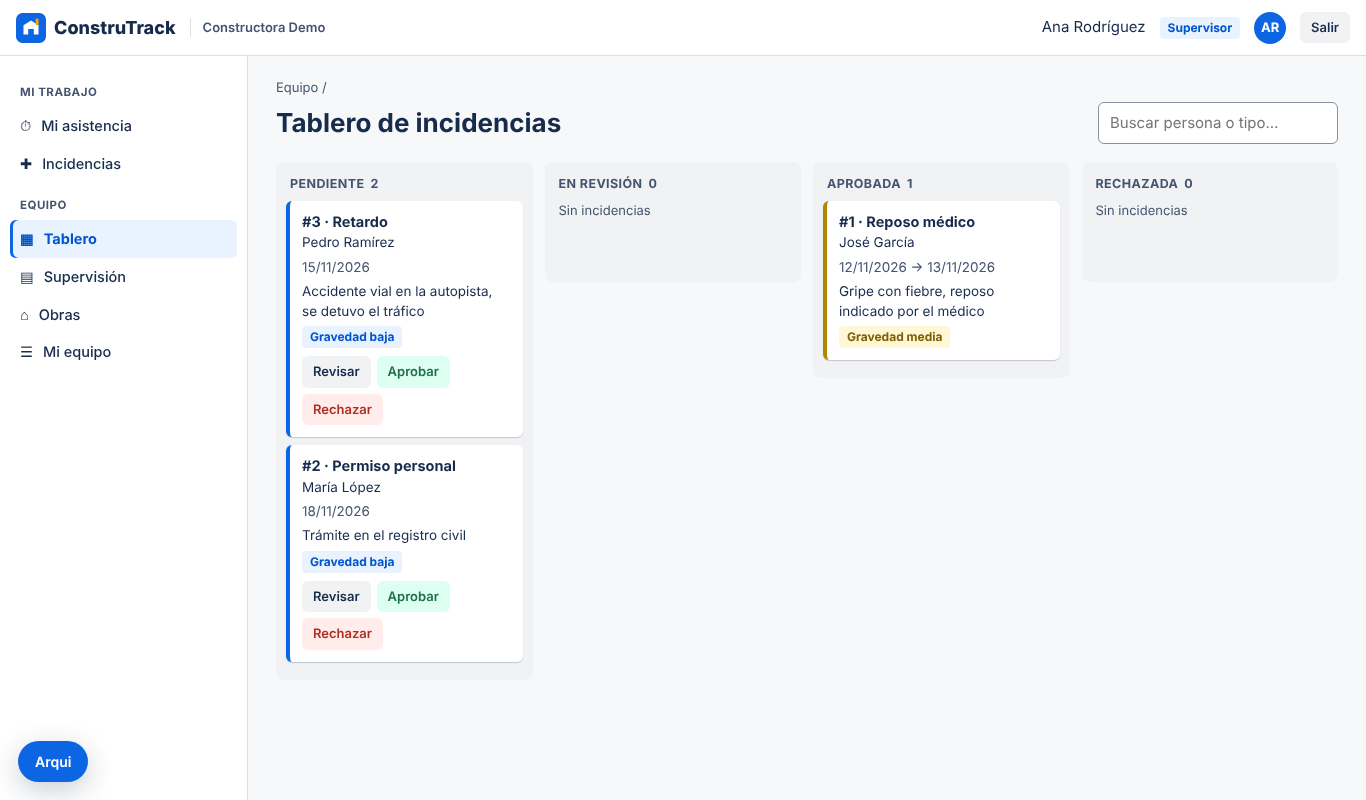
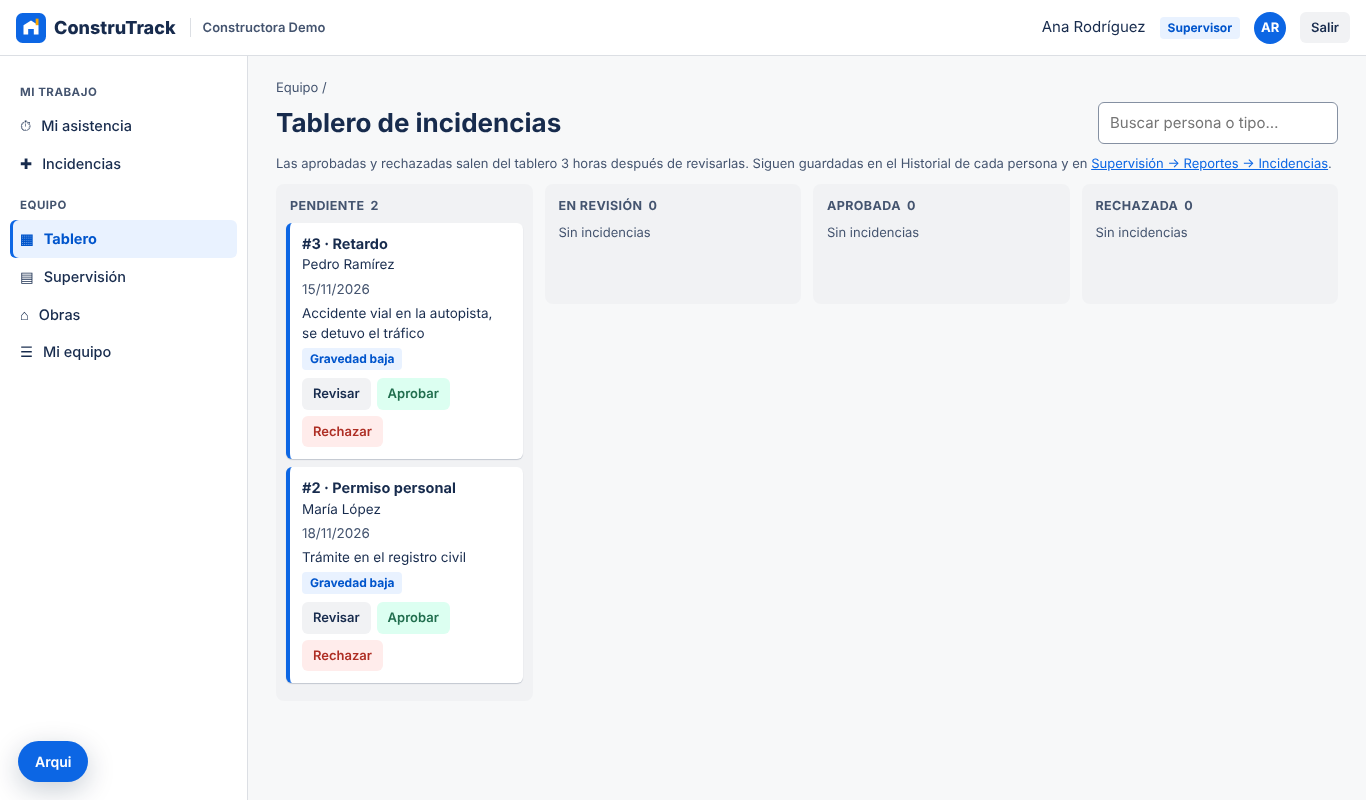
docs: HU-29 y HU-30, capturas del tablero y la supervisión
Claude-Session: https://claude.ai/code/session_01KyDqg7X6ZwNdjfXwPa2YpY

Changed region(s): [[0.1845, 0.1875, 0.9839, 0.8438]]

diff --git a/README.md b/README.md
@@ -38,7 +38,7 @@ herencia, polimorfismo, interfaces, composición y los principios **SOLID**, en 
 |-----|-----------------|
 | **Visitante** | Ver la portada, consultar a **Arqui**, el asistente virtual, y **crear su cuenta** con correo, nombre, apellido, cédula o DNI y teléfono, eligiendo **«Soy jefe: crear mi empresa»** o **«Me uno a una empresa»**. |
 | **Empleado** | Unirse a la empresa con un **código de invitación**, marcar entrada y salida (puntualidad con 10 min de tolerancia), ver su historial y **reportar incidencias**. |
-| **Supervisor** | Todo lo anterior + **tablero Kanban** para aprobar o rechazar las incidencias de su equipo, **aprobar horas extra**, **alertas automáticas** (de la más antigua a la más reciente), **tabla de puntualidad** con horas trabajadas, **gestionar obras** y **reportes** en CSV o texto. |
+| **Supervisor** | Todo lo anterior + **tablero Kanban** para aprobar o rechazar las incidencias de su equipo (las resueltas salen a las 3 h y quedan en los reportes), **aprobar horas extra**, **alertas automáticas** (de la más antigua a la más reciente), **tabla de puntualidad** con horas trabajadas, **gestionar obras** y **reportes** en CSV o texto. |
 | **Jefe** | **Crea su empresa** al registrarse. Todo lo anterior para toda su empresa + **gestionar al personal** y **crear invitaciones** de un solo uso con rol, supervisor y obra, que se **envían por correo**. |
 
 Reglas destacadas:
@@ -183,7 +183,7 @@ con códigos 400, 401, 403, 404 o 409.
 
 ## Calidad
 
-- **CI en GitHub Actions:** compila con `-Xlint:all -Werror`, ejecuta las **50 pruebas JUnit 5** y pruebas de humo de la API en modo demostración, en modo producción y de la demo privada.
+- **CI en GitHub Actions:** compila con `-Xlint:all -Werror`, ejecuta las **57 pruebas JUnit 5** y pruebas de humo de la API en modo demostración, en modo producción y de la demo privada.
 - **Pruebas** del modelo, la persistencia y los servicios con reloj fijo; se comprobó que detectan errores introducidos a propósito.
 - Verificado en la interfaz real: recorridos de la web con Playwright, de Swing en pantalla virtual, y despliegue con Docker y CORS.
 

diff --git a/docs/scrum/sprint-7.md b/docs/scrum/sprint-7.md
@@ -2,7 +2,7 @@
 
 **Objetivo:** corregir lo encontrado al usar la página publicada «como la profesora» y dejar ConstruTrack listo para que
 cualquier constructora lo use.
-**Historias:** HU-18 a HU-28.
+**Historias:** HU-18 a HU-30.
 
 ## Sprint Backlog
 - **Datos permanentes** (HU-20): `Almacen` con `AlmacenArchivo` y `AlmacenUpstash`; el plan gratuito de Render borraba
@@ -18,9 +18,13 @@ cualquier constructora lo use.
 - **Portada nueva** (HU-27), asistente **Arqui**, código sin comentarios.
 - **Versión para clientes** (HU-28): arranque vacío, modo demostración opcional (`--demo`) y demo privada con clave
   en la misma página (`app.html#demo`).
+- **Pulido final** (HU-29, HU-30): las incidencias aprobadas o rechazadas salen del tablero 3 horas después de
+  revisarse y quedan en el reporte de incidencias (con «Todo el historial»); la asistencia se calcula desde la jornada
+  abierta, lo que arregla la marca del jefe; el jefe y los supervisores aparecen primero y destacados en la tabla de
+  puntualidad; y las opciones de rol del registro quedan alineadas en el celular.
 
 ## Incremento
-PRs #3 a #9 fusionados en `main`, cada uno con el CI en verde, desplegados en Render y publicados en Netlify.
+PRs #3 a #10 fusionados en `main`, cada uno con el CI en verde, desplegados en Render y publicados en Netlify.
 Copia de respaldo de la versión anterior (código y datos) entregada fuera del repositorio.
 
 ## Review
@@ -29,7 +33,7 @@ Copia de respaldo de la versión anterior (código y datos) entregada fuera del 
   otra empresa) y con un recorrido en el navegador.
 - Al quitar los comentarios se verificó que el Java compilado es idéntico byte a byte y que el JavaScript tiene el mismo
   árbol sintáctico.
-- 50 pruebas JUnit y pruebas de humo de la API en modo demostración, producción y demo privada.
+- 57 pruebas JUnit y pruebas de humo de la API en modo demostración, producción y demo privada.
 
 ## Retrospectiva
 - **Bien:** probar la página real como lo haría la profesora reveló errores que las pruebas unitarias no veían

diff --git a/docs/scrum/product-backlog.md b/docs/scrum/product-backlog.md
@@ -32,6 +32,8 @@ Prioridad: **A** (alta, pedido por la profesora o imprescindible) · **M** (medi
 | HU-26 | Como **jefe**, quiero crear mi empresa al registrarme e invitar a mi equipo; cada empresa ve solo sus datos. | A | 7 | Hecho |
 | HU-27 | Como **visitante**, quiero una portada atractiva que muestre el producto y las dos formas de empezar. | M | 7 | Hecho |
 | HU-28 | Como **dueño del producto**, quiero una versión para clientes sin datos de prueba y una demo privada con clave. | A | 7 | Hecho |
+| HU-29 | Como **supervisor**, quiero que las incidencias resueltas salgan del tablero a las 3 h y sigan en los reportes. | M | 7 | Hecho |
+| HU-30 | Como **jefe**, quiero marcar mi asistencia y aparecer destacado, junto a los supervisores, en la tabla de puntualidad. | A | 7 | Hecho |
 
 ## Criterios de aceptación (historias principales)
 
